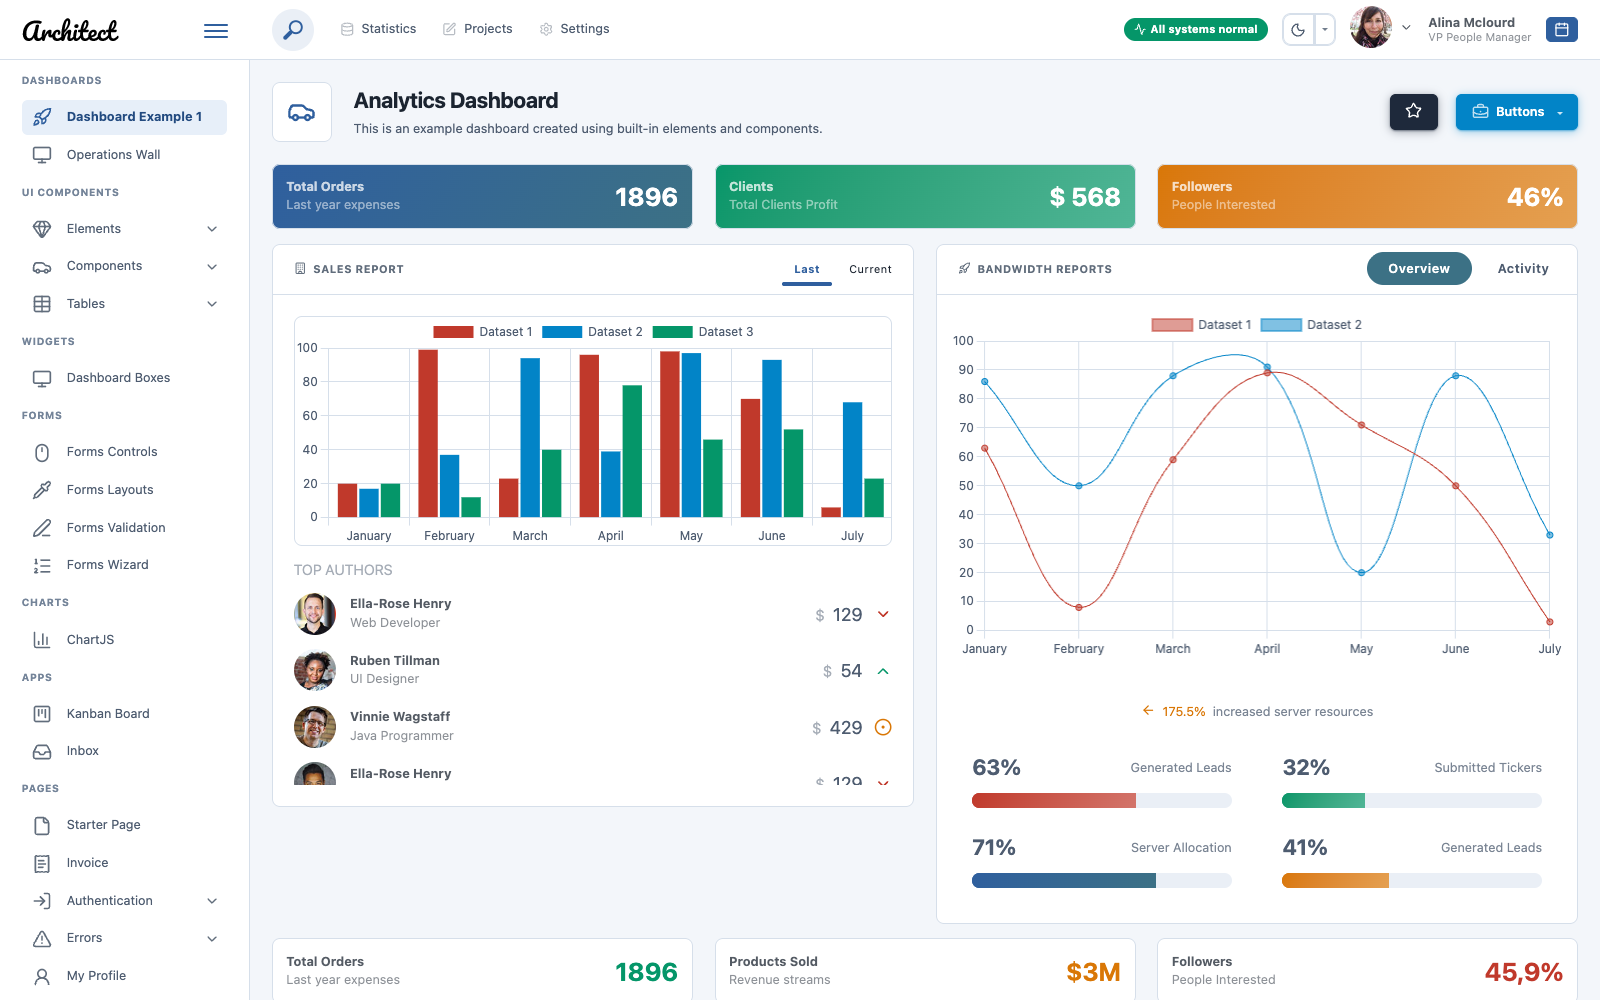
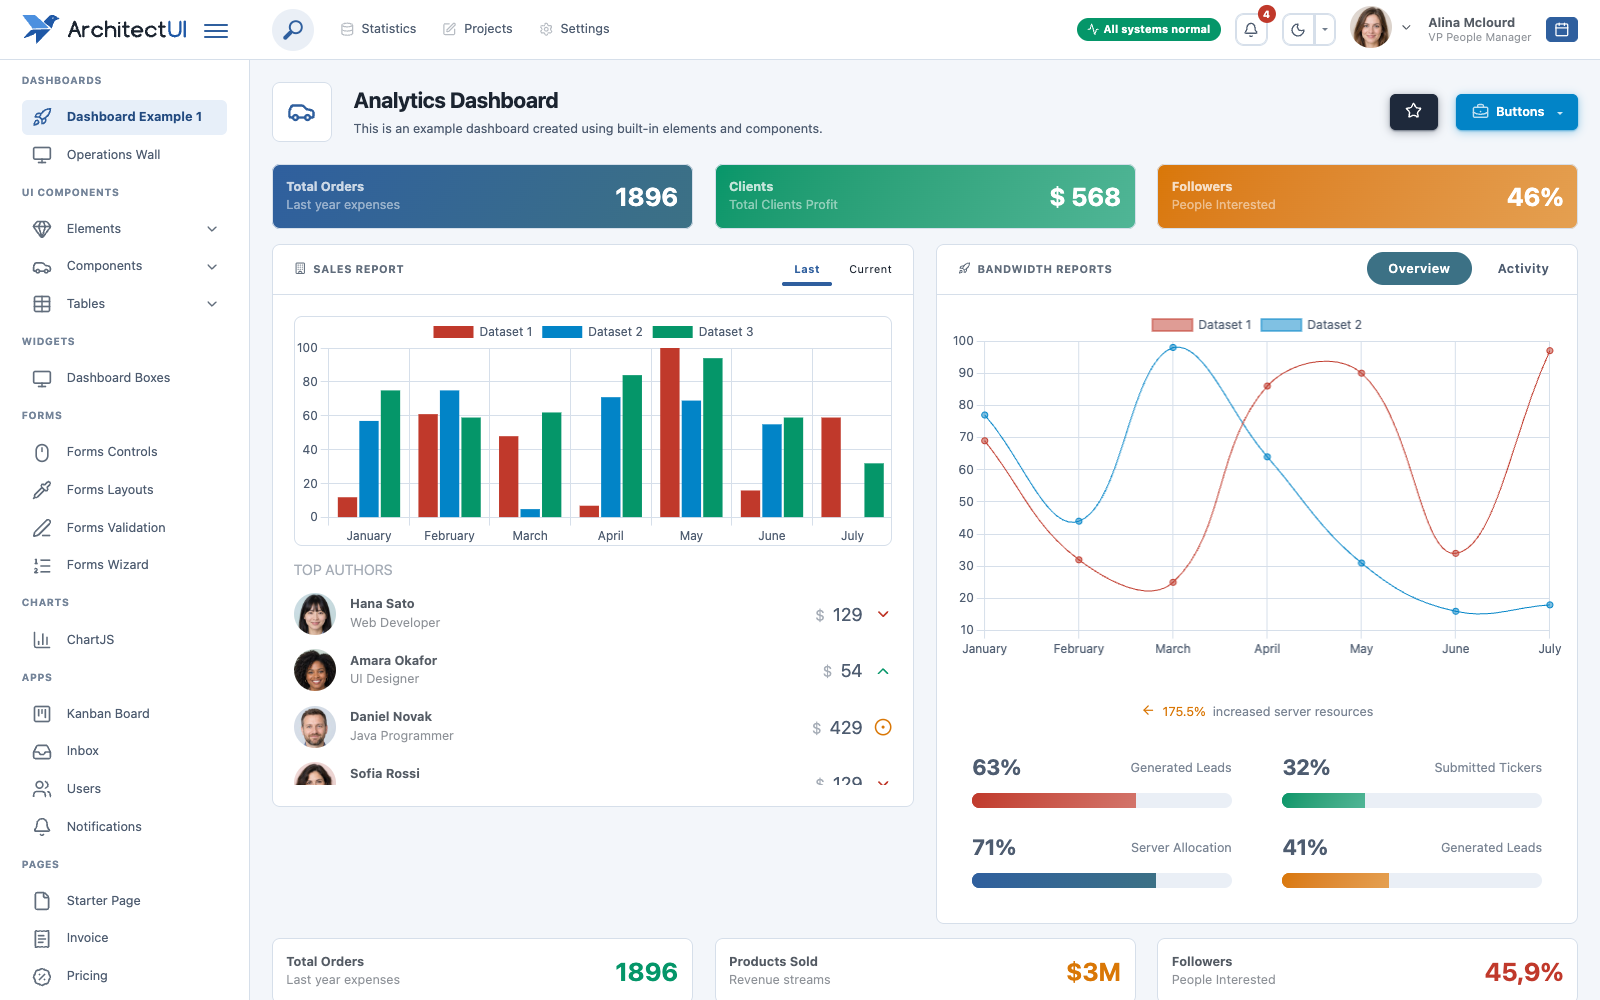
Rewrite README as a short visual overview

diff --git a/README.md b/README.md
@@ -1,98 +1,76 @@
-# ArchitectUI Bootstrap 5 HTML Theme
+# ArchitectUI — Bootstrap 5 Admin Dashboard Theme
 
-ArchitectUI is a clean, responsive admin dashboard theme. It is a thin layer on top of Bootstrap 5.3:
-one stylesheet and one dependency-free script. Bootstrap and the icons come from a CDN, so any markup written
-for Bootstrap 5 works inside the theme without changes, and you never rebuild Bootstrap.
+[![Release](https://img.shields.io/github/v/release/wnikk/architectui-html-theme?label=release)](https://github.com/wnikk/architectui-html-theme/releases)
+[![License: MIT](https://img.shields.io/badge/license-MIT-green)](LICENSE)
+[![Bootstrap 5.3](https://img.shields.io/badge/Bootstrap-5.3-7952b3)](https://getbootstrap.com)
 
-![ArchitectUI Bootstrap 5](preview.png)
+ArchitectUI is a ready-made admin theme for Bootstrap 5.3. Write standard Bootstrap markup and get a finished
+admin interface: a page frame, every Bootstrap component, a dark mode and ten visual themes.
 
-**Demo:** https://wnikk.github.io/architectui-html-theme/
+**[Live demo](https://wnikk.github.io/architectui-html-theme/)** ·
+[Download ZIP](https://github.com/wnikk/architectui-html-theme/archive/refs/heads/master.zip) ·
+[Releases](https://github.com/wnikk/architectui-html-theme/releases) ·
+[Changelog](Changelog.md)
 
-## What you get
+![ArchitectUI dashboard in the default Business theme](preview.png)
 
-- `dist/architectui.css` — the theme: layout, components, colors and dark mode in the default Business look, all driven by CSS variables.
-- `dist/architectui.js` — the theme behavior of the admin pages: collapsible sidebar, interface settings, theme and mode switching, header search, file drop zone, icon rendering.
-- `dist/architectui-auth.js` — the script of the guest pages (sign in, sign up, errors) instead of `architectui.js`: mode toggle, icons, form steps with a verification code.
-- `dist/themes/*.css` — nine optional visual themes loaded on top of `architectui.css`, including Orange, the original ArchitectUI look.
-- Wide screens and dense pages: grid and display classes `3xl` (from 1560 px) and `4xl` (from 1860 px) after Bootstrap `xxl` for 1600 and 1920 px monitors, a compact density setting, the Operations Wall demo page.
-- `dist/*.html` — demo pages: dashboards (including the Operations Wall for wide screens), elements, every Bootstrap component on one page, a starter page, a profile page with the interface settings, guest pages (sign in, sign up, password reset, errors 403, 404 and 500, maintenance), Bootstrap tables and DataTables, components, forms (including a wizard in several steps), a Kanban board, an inbox, a user list with a modal form, a notifications center, workspace settings in sections, an invoice ready for print, pricing plans, search results, the palettes of all themes, tables, charts, calendar and maps.
-- Page path and print: breadcrumbs in the header or a path line with a Back link above the page title (`aui-page-path`, `data-aui-back`); print styles that put only the page content on paper in the light mode (`data-aui-print` opens the print dialog).
-- No jQuery, no build step for your app. Icons are [Lucide](https://lucide.dev).
+## Why ArchitectUI
+
+| Advantage | What you get |
+|-----------|--------------|
+| **Standard Bootstrap markup** | Markup written for Bootstrap 5.3 works without changes. There is no second framework to learn. |
+| **Two files** | One stylesheet and one script without dependencies. Bootstrap and the icons come from a CDN. |
+| **No build step** | Copy the files and write HTML. Your project needs no jQuery, no bundler and no Node. |
+| **Ten themes** | One extra stylesheet changes the look. Light, dark and system modes. |
+| **48 demo pages** | Dashboards, forms, tables, charts, apps and sign-in pages. Copy the markup that you need. |
+| **Ready for daily work** | Phones, wide monitors (1600 and 1920 px), a compact density and print styles. |
+| **Ready for AI agents** | `AGENTS.md` and `llms-full.txt` tell a coding agent how to build pages with the theme. |
 
 ## Quick start
 
-ArchitectUI is a template: take your own copy and adapt it to your project. The built files are in the `dist/`
-folder of this repository, always the latest version (its number is in `package.json` and `Changelog.md`).
+ArchitectUI is a template. Take your own copy and adapt it to your project.
 
-Download the repository as a [ZIP of the `master` branch](https://github.com/wnikk/architectui-html-theme/archive/refs/heads/master.zip)
-or clone it. A fixed version is on the [Releases](https://github.com/wnikk/architectui-html-theme/releases) page: its ZIP holds the `dist/` files of that version. Copy from `dist/` the files `architectui.css`, `architectui.js` (and `architectui-auth.js` for sign-in pages),
-the folders `themes/` and `assets/` to your project, then add to `<head>`:
+1. Download the [ZIP of the `master` branch](https://github.com/wnikk/architectui-html-theme/archive/refs/heads/master.zip).
+   For a fixed version, take the ZIP from the [Releases](https://github.com/wnikk/architectui-html-theme/releases) page.
+2. Copy these items from `dist/` to your project: `architectui.css`, `architectui.js`, `themes/`, `assets/` and `LICENSE`.
+3. Add these lines to the `<head>` of your page:
 
-```html
-<link rel="stylesheet" href="https://cdn.jsdelivr.net/npm/bootstrap@5.3.8/dist/css/bootstrap.min.css">
-<link rel="stylesheet" href="architectui.css">
-<script defer src="https://cdn.jsdelivr.net/npm/bootstrap@5.3.8/dist/js/bootstrap.bundle.min.js"></script>
-<script defer src="https://cdn.jsdelivr.net/npm/lucide@1.65.0/dist/umd/lucide.min.js"></script>
-<script defer src="architectui.js"></script>
-```
+   ```html
+   <link rel="stylesheet" href="https://cdn.jsdelivr.net/npm/bootstrap@5.3.8/dist/css/bootstrap.min.css">
+   <link rel="stylesheet" href="architectui.css">
+   <script defer src="https://cdn.jsdelivr.net/npm/bootstrap@5.3.8/dist/js/bootstrap.bundle.min.js"></script>
+   <script defer src="https://cdn.jsdelivr.net/npm/lucide@1.65.0/dist/umd/lucide.min.js"></script>
+   <script defer src="architectui.js"></script>
+   ```
 
-Themes load from the folder next to `architectui.css`. Logos, avatars and other images are part of your markup:
-keep `assets/` next to the pages or change the paths. The copy is yours: change the variables, the sources in `src/`
-and the demo pages as your project needs, and build them again with `npm run build`.
+4. Start from a demo page and replace its content with your Bootstrap markup:
+   - `dist/pages-starter.html` — a page with the frame (header, sidebar, page title, footer);
+   - `dist/pages-login.html` — a page without the frame. It loads `architectui-auth.js` instead of `architectui.js`; copy that file too.
 
-All links are relative, and every script is a classic `defer` script. The demo works from any folder of a local
-server and from disk (`file://`). The theme script adds one global, `window.ArchitectUI`. Markup that a script inserts
-later renders its icons, tooltips and popovers by itself. `ArchitectUI.token("primary")`, `ArchitectUI.rgba("primary", .5)`
-and `ArchitectUI.chartDefaults(Chart)` give page scripts the colors of the current theme.
-
-The demo pages link the theme files with `?v=<version>` (for example `architectui.css?v=6.2.37`), so a new version reaches
-visitors past their browser cache. Do the same on your pages; the theme stylesheets keep the query.
-
-Start from `dist/pages-starter.html` for a page with the frame (header, sidebar, page title, footer) and from
-`dist/pages-login.html` for a page without it.
-
-## Icons
-
-Write an element with the icon name. The theme script turns it into an inline SVG:
-
-```html
-<i data-lucide="rocket"></i>
-```
-
-Icons take the text color and scale with the font size. `aui-icon-gradient-<color>` strokes an icon with a theme gradient.
-The Icons demo page lists every icon with search and copy on click.
-
-## Logo
-
-Replace the files, nothing else:
-
-- `assets/images/logo.svg` — logo for light backgrounds;
-- `assets/images/logo-on-dark.svg` — logo for dark backgrounds (dark theme, dark header colors).
-
-Wide and square logos both fit automatically. The maximum height is the `--aui-logo-max-height` variable (2.25rem).
+All paths are relative. The pages work from any folder of a web server and from disk.
 
 ## Themes
 
-`architectui.css` alone draws the default look, Business. Nine more visual themes are optional. A theme is one extra
-stylesheet loaded after `architectui.css`; it changes palette, typography, radii, shadows and table density, not the markup.
+`architectui.css` alone gives the default look, Business. A theme is one more stylesheet. It changes the colors,
+type, radii and shadows. The markup stays the same.
 
-| Theme | File | Character |
-|-------|------|-----------|
-| Business (default) | none, built into `architectui.css` | Dense, smaller type, lines instead of shadows |
-| Orange | `themes/orange.css` | The original ArchitectUI look: orange accents, color gradients, soft shadows |
-| Indigo | `themes/indigo.css` | Indigo palette with the depth of Orange: soft shadows instead of lines, a floating header and sidebar, vivid two-color gradients |
-| Indigo Calathea | `themes/indigo-img.css` | Indigo with a subtle photo of Calathea leaves behind the content |
-| Coffee | `themes/coffee.css` | Warm browns with the depth of Orange (warm shadows, caramel and honey gradients) at the compact sizes of Business |
-| Garden | `themes/green.css` | Calm green, serif headings, airy rows for long reading |
-| Warm | `themes/raspberry.css` | Berry accent, pill buttons, rounder corners |
-| Operations | `themes/teal.css` | Zebra tables, monospace numbers |
-| Space | `themes/violet.css` | Large radii, soft violet shadows, heavy headings |
-| Cyberpunk | `themes/cyberpunk.css` | Neon on black, monospace; dark only |
+![Nine optional themes of ArchitectUI](preview-themes.png)
 
-Pick a theme in the list next to the light/dark button in the header, or a theme and a mode (Light, Dark, System)
-in the Interface section of the profile page (`pages-profile.html`). The choice is stored in `localStorage` and applied before the first paint.
-To ship a fixed theme without the settings,
-add the stylesheet yourself and put the theme id on `<html>`. The attribute switches the built-in Business values off:
+| Theme | Id | Look |
+|-------|----|------|
+| Business | default | Dense, small type, lines instead of shadows |
+| Orange | `orange` | Orange accents, color gradients, soft shadows |
+| Indigo | `indigo` | Indigo palette, floating header and sidebar, vivid gradients |
+| Indigo Calathea | `indigo-img` | Indigo with a photo of leaves behind the content |
+| Coffee | `coffee` | Warm browns, soft shadows, compact sizes |
+| Garden | `green` | Calm green, serif headings, airy rows |
+| Warm | `raspberry` | Berry accent, pill buttons, round corners |
+| Operations | `teal` | Zebra tables, monospace numbers |
+| Space | `violet` | Large radii, violet shadows, heavy headings |
+| Cyberpunk | `cyberpunk` | Neon on black, monospace, dark only |
+
+Users select a theme and a mode in the header. The browser keeps the selection.
+To set one theme for all users, add its id and its stylesheet:
 
 ```html
 <html data-aui-theme="coffee">
@@ -100,70 +78,66 @@ add the stylesheet yourself and put the theme id on `<html>`. The attribute swit
 <link rel="stylesheet" href="themes/coffee.css">
 ```
 
-Theme sources live in `src/scss/themes/`. A new theme is one file: its palette for both modes, other variable values
-and the rules only this theme needs. The shared rules of all themes come from `_theme.scss` and are part of
-`architectui.css`. Two optional looks are mixins of the theme base: `t.depth()` gives a theme the soft shadows and
-gradients of Orange in its own colors (Indigo, Coffee), `t.compact` gives it the compact sizes of Business (Coffee).
-Add the theme to `src/_data/themes.json` to list it in the settings.
+## Demo pages
 
-## Layout options
+Each page is complete. Open it in the [live demo](https://wnikk.github.io/architectui-html-theme/) and copy its markup from `dist/`.
 
-Layout modes are attributes on `<html>`. The Interface section of the profile page (`pages-profile.html`, user menu → Interface settings) changes them and remembers the choice in `localStorage`.
+| Group | Pages |
+|-------|-------|
+| Dashboards | [Analytics](https://wnikk.github.io/architectui-html-theme/index.html) · [Operations Wall](https://wnikk.github.io/architectui-html-theme/dashboard-operations.html) · [Dashboard Boxes](https://wnikk.github.io/architectui-html-theme/dashboard-boxes.html) |
+| Elements | [Buttons](https://wnikk.github.io/architectui-html-theme/elements-buttons-standard.html) · [Dropdowns](https://wnikk.github.io/architectui-html-theme/elements-dropdowns.html) · [Icons](https://wnikk.github.io/architectui-html-theme/elements-icons.html) · [Badges](https://wnikk.github.io/architectui-html-theme/elements-badges-labels.html) · [Cards](https://wnikk.github.io/architectui-html-theme/elements-cards.html) · [List Groups](https://wnikk.github.io/architectui-html-theme/elements-list-group.html) · [Navigation](https://wnikk.github.io/architectui-html-theme/elements-navigation.html) · [Utilities](https://wnikk.github.io/architectui-html-theme/elements-utilities.html) · [Theme Palettes](https://wnikk.github.io/architectui-html-theme/elements-palettes.html) |
+| Components | [All Bootstrap components](https://wnikk.github.io/architectui-html-theme/components-bootstrap.html) · [Tabs](https://wnikk.github.io/architectui-html-theme/components-tabs.html) · [Accordions](https://wnikk.github.io/architectui-html-theme/components-accordions.html) · [Notifications](https://wnikk.github.io/architectui-html-theme/components-notifications.html) · [Modals](https://wnikk.github.io/architectui-html-theme/components-modals.html) · [Progress](https://wnikk.github.io/architectui-html-theme/components-progress-bar.html) · [Tooltips and Popovers](https://wnikk.github.io/architectui-html-theme/components-tooltips-popovers.html) · [Carousel](https://wnikk.github.io/architectui-html-theme/components-carousel.html) · [Calendar](https://wnikk.github.io/architectui-html-theme/components-calendar.html) · [Pagination](https://wnikk.github.io/architectui-html-theme/components-pagination.html) · [Scroll areas](https://wnikk.github.io/architectui-html-theme/components-scrollable-elements.html) · [Maps](https://wnikk.github.io/architectui-html-theme/components-maps.html) |
+| Forms | [Controls](https://wnikk.github.io/architectui-html-theme/forms-controls.html) · [Layouts](https://wnikk.github.io/architectui-html-theme/forms-layouts.html) · [Validation](https://wnikk.github.io/architectui-html-theme/forms-validation.html) · [Wizard](https://wnikk.github.io/architectui-html-theme/forms-wizard.html) |
+| Tables and charts | [Bootstrap tables](https://wnikk.github.io/architectui-html-theme/tables-regular.html) · [DataTables](https://wnikk.github.io/architectui-html-theme/tables-datatables.html) · [Chart.js](https://wnikk.github.io/architectui-html-theme/charts-chartjs.html) |
+| Apps | [Kanban board](https://wnikk.github.io/architectui-html-theme/apps-kanban.html) · [Inbox](https://wnikk.github.io/architectui-html-theme/apps-inbox.html) · [Users](https://wnikk.github.io/architectui-html-theme/apps-users.html) · [Notifications](https://wnikk.github.io/architectui-html-theme/apps-notifications.html) |
+| Pages | [Starter](https://wnikk.github.io/architectui-html-theme/pages-starter.html) · [Invoice](https://wnikk.github.io/architectui-html-theme/pages-invoice.html) · [Pricing](https://wnikk.github.io/architectui-html-theme/pages-pricing.html) · [Search](https://wnikk.github.io/architectui-html-theme/pages-search.html) · [Settings](https://wnikk.github.io/architectui-html-theme/pages-settings.html) · [Profile](https://wnikk.github.io/architectui-html-theme/pages-profile.html) |
+| Sign-in and errors | [Sign in](https://wnikk.github.io/architectui-html-theme/pages-login.html) · [Sign up](https://wnikk.github.io/architectui-html-theme/pages-register.html) · [Password reset](https://wnikk.github.io/architectui-html-theme/pages-forgot-password.html) · [403](https://wnikk.github.io/architectui-html-theme/pages-403.html) · [404](https://wnikk.github.io/architectui-html-theme/pages-404.html) · [500](https://wnikk.github.io/architectui-html-theme/pages-500.html) · [Maintenance](https://wnikk.github.io/architectui-html-theme/pages-maintenance.html) |
 
-| Attribute | Values | Default |
-|-----------|--------|---------|
-| `data-aui-header` | `fixed`, `static` | `fixed` |
-| `data-aui-sidebar` | `fixed`, `static` | `fixed` |
-| `data-aui-footer` | `fixed`, `static` | `static` |
-| `data-aui-sidebar-collapsed` | present or absent | absent |
-| `data-aui-tabs` | `shadow`, `line` | `shadow` |
-| `data-aui-density` | `compact`, or none for the normal density | none |
-| `data-aui-header-scheme`, `data-aui-sidebar-scheme` | `primary`, `secondary`, `success`, `info`, `warning`, `danger`, `light`, `dark`, `focus`, `alternate` | none |
-| `data-aui-mode` | `light`, `dark`, `system` | `light` |
-| `data-aui-theme` | theme id from the table above, or none for Business | none |
-| `data-bs-theme` | `light`, `dark` — set by the theme script from the mode | `light` |
+## Customize
 
-The sidebar is full width from 1200 px, an icon rail from 768 px (it expands on hover or keyboard focus) and an off-canvas panel below 768 px.
+- **Colors, radii, shadows and sizes** are CSS variables. Change them in your own stylesheet after `architectui.css`:
 
-For monitors 1600 and 1920 px wide, the grid continues after `xxl`: `col-3xl-*`, `row-cols-3xl-*`, `g-3xl-*`, `d-3xl-*` from 1560 px and the same `4xl` classes from 1860 px. The compact density (`data-aui-density="compact"`) makes the frame gutter, cards and tables denser in every theme.
+  ```css
+  :root {
+    --bs-primary: #3f6ad8;
+    --bs-primary-rgb: 63, 106, 216;
+  }
+  ```
 
-## Theme colors
+  The [Theme Palettes](https://wnikk.github.io/architectui-html-theme/elements-palettes.html) page shows every color of every theme with its class and variable.
+- **Layout** options are attributes on `<html>`. They set a fixed or static header, sidebar and footer, a collapsed sidebar,
+  a compact density and the header and sidebar colors. Users change them on the [Profile](https://wnikk.github.io/architectui-html-theme/pages-profile.html#interface) page.
+- **Icons** are [Lucide](https://lucide.dev): `<i data-lucide="rocket"></i>`. The [Icons](https://wnikk.github.io/architectui-html-theme/elements-icons.html) page has a search and copies a name on click.
+- **Logo**: replace `assets/images/logo.svg` and `assets/images/logo-on-dark.svg`.
 
-All colors are CSS variables. Override them after `architectui.css`, no rebuild needed:
+## Documentation
 
-```css
-:root {
-  --bs-primary: #3f6ad8;
-  --bs-primary-rgb: 63, 106, 216;
-}
-```
-
-The theme adds `focus`, `alternate` and `tertiary` to the Bootstrap color set (`btn-focus`, `bg-alternate`, `text-focus` and so on).
-
-The Theme Palettes demo page (`elements-palettes.html`) shows every color of every theme in both modes with its class,
-variable and HEX value, and explains how to use the colors in markup, CSS and scripts.
-
-## For AI agents
-
-- [`llms.txt`](llms.txt) — short description of the theme and links, in the [llms.txt](https://llmstxt.org) format.
-- [`llms-full.txt`](llms-full.txt) — complete usage reference: page template, frame markup, settings, script API, themes, tokens, component classes.
-- [`AGENTS.md`](AGENTS.md) — short how-to for agents: which files to take, how to build a page, settings, customizing, rules.
+| Document | Content |
+|----------|---------|
+| [`llms-full.txt`](llms-full.txt) | The complete reference: page template, frame markup, layout attributes, script API, themes, variables, component classes |
+| [`AGENTS.md`](AGENTS.md) | A short guide for AI coding agents: files, steps to build a page, rules |
+| [`llms.txt`](llms.txt) | A short index in the [llms.txt](https://llmstxt.org) format |
+| [`Changelog.md`](Changelog.md) | The changes of each version |
 
 ## Development
 
-Requires Node 22 or newer.
+You need Node 22 or newer only to change the theme sources or the demo pages.
 
 ```bash
 npm install
 npm run dev
 ```
 
-`npm run dev` serves the demo at http://localhost:8080 and rebuilds pages and styles on change. `npm run build` writes the built files into `dist/`.
+`npm run dev` serves the demo at http://localhost:8080 and builds again on each change. `npm run build` writes the files to `dist/`.
 
-
-The demo pages are built with [Eleventy 3](https://www.11ty.dev), the styles with [Sass](https://sass-lang.com). These are the only two dependencies.
-
-The Maps page uses public OpenStreetMap tiles. They are fine for a demo; use your own tile server or a tile provider in production.
+```
+src/pages/      demo pages and their scripts
+src/_includes/  page layouts and partials
+src/_data/      menu, theme list, demo data, CDN addresses
+src/scss/       theme styles; themes/ has one file for each theme
+src/js/         theme scripts
+dist/           built files: copy these to your project
+```
 
 ## License
 
